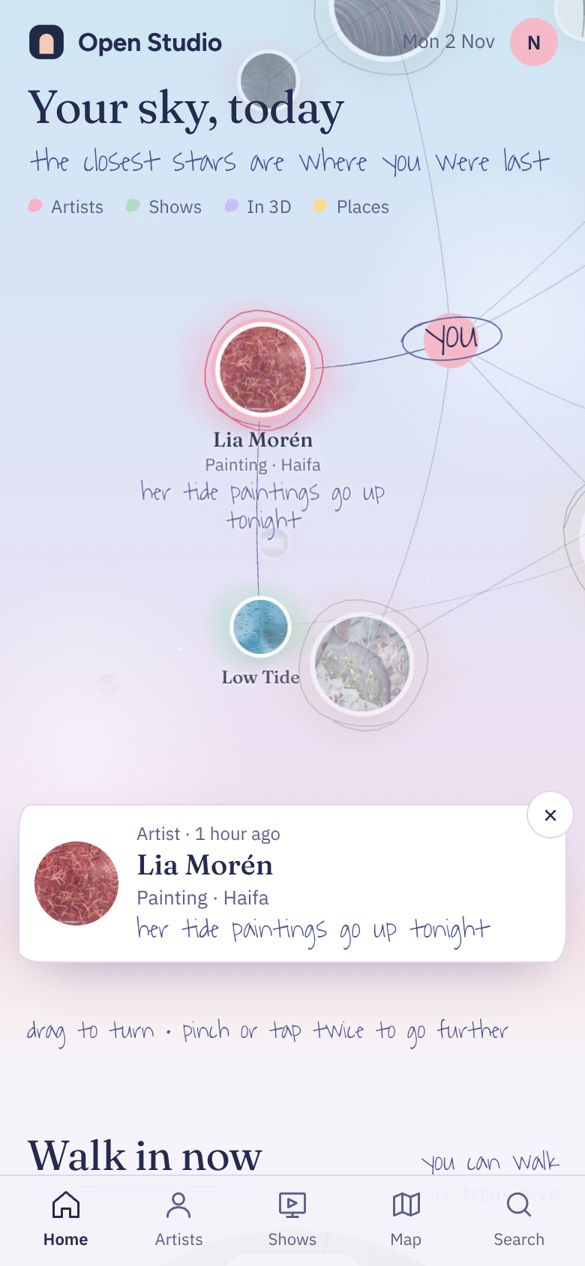
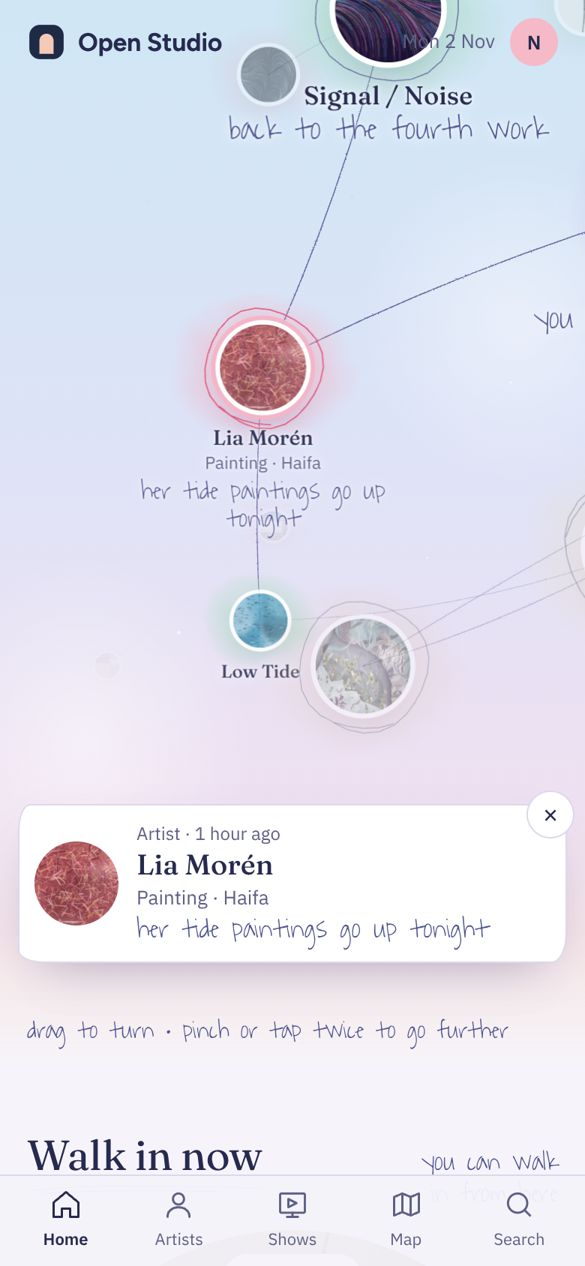
Daylight, by hand: no title and no 'you' in the middle; what you used last drawn as the trail you took
Claude-Session: https://claude.ai/code/session_017GsJvpJhWTJ6Xso11HKtdL

diff --git a/studio/design/home-sky/day.js b/studio/design/home-sky/day.js
@@ -1,6 +1,6 @@
 // Daylight sky, by hand: the page and the sky's marks, shared by the chosen direction and its variations.
 import { home } from './home.js';
-import { placeAll } from './data.js';
+import { placeAll, STARS, TIES } from './data.js';
 import { rnd } from './sky.js';
 
 const NS = 'http://www.w3.org/2000/svg';
@@ -42,15 +42,20 @@ const sketchArch = tour => {
   wrap.insertAdjacentHTML('beforeend', `<svg class="sketch-arch" viewBox="-9 -9 ${w + 16} ${h + 15}" aria-hidden="true"><path d="${path(-8, -9, 9)}"/><path d="${path(4, -3, 3)}" opacity=".5"/></svg>`);
 };
 
+// without a "you" in the middle: what you used last is drawn as the trail you took, in order
+const TRAIL = [['signal', 'lia', 'used'], ['lia', 'ritual', 'used'], ['ritual', 'harbour', 'used'], ['harbour', 'together', 'used'], ['maya', 'ritual', 'maybe'], ['elad', 'harbour', 'maybe']];
+const SKY_STARS = STARS.filter(s => s.kind !== 'you'), SKY_TIES = [...TRAIL, ...TIES.filter(t => !t.includes('you'))];
+
 export function day(v = {}) {
   hourSky(v.skies);
   home({
     tourShape: v.tourShape || 'arch', wander: false,
-    copy: { title: 'Your sky, today', hand: 'the closest stars are where you were last', hint: 'drag to turn · pinch or tap twice to go further', live: 'Walk in now', end: 'that’s your sky for today', ...v.copy },
+    copy: { title: '', hand: 'the closest stars are where you were last', hint: 'drag to turn · pinch or tap twice to go further', live: 'Walk in now', end: 'that’s your sky for today', ...v.copy },
     legend: v.legend === false ? null : [['artist', 'Artists'], ['show', 'Shows'], ['tour', 'In 3D'], ['place', 'Places']],
     sky: {
-      cam: { D: 560, pitch: 0 }, F: 560, cy: 0.57, limits: { yaw: 0.8, pitch: 0.45, Dmin: 300, Dmax: 1500 }, intro: 1.9, zoomEase: .05, farZoom: 1.9,
+      cam: { D: 560, pitch: 0 }, F: 560, cy: 0.535, limits: { yaw: 0.8, pitch: 0.45, Dmin: 300, Dmax: 1500 }, intro: 1.9, zoomEase: .05, farZoom: 1.9,
       farFrom: 560, fogStart: 60, fogRange: 1500, minOp: .1, labelAt: 0.7, bigAt: 0.86, maxScale: 1.3, bow: 0.1, ink: .8, pickLift: 90,
+      stars: v.you ? STARS : SKY_STARS, ties: v.you ? TIES : SKY_TIES,
       layout: placeAll, node: v.node || node,
       extra(g, project, cam, t, size) { dust(g, project); if (v.extra) v.extra(g, project, cam, t, size); },
       ...v.sky,

diff --git a/studio/design/home-sky/home.js b/studio/design/home-sky/home.js
@@ -13,7 +13,7 @@ export function home(d) {
   app.innerHTML = `
     <header class="top"><a class="brand" href="./">${LOGO}<span>Open Studio</span></a><span class="day">Mon 2 Nov</span><span class="me" aria-label="Your account">N</span></header>
     <section class="hero" aria-label="Your art world">
-      <div class="hello"><h1>${c.title}</h1>${c.hand ? `<p class="hand">${c.hand}</p>` : ''}
+      <div class="hello">${c.title ? `<h1>${c.title}</h1>` : `<h1 class="vh">Your art world</h1>`}${c.hand ? `<p class="hand">${c.hand}</p>` : ''}
         ${d.legend ? `<ul class="legend" aria-label="What the marks mean">${d.legend.map(([k, t]) => `<li><i class="lg lg-${k}"></i>${t}</li>`).join('')}</ul>` : ''}</div>
       <div id="sky" class="skybox"></div>
       <div class="sky-ui"><span class="hint">${c.hint || 'Drag to turn · pinch to see further'}</span>
@@ -56,12 +56,13 @@ export function home(d) {
   const S = sky(app.querySelector('#sky'), {
     stars: STARS, ties: TIES, ...d.sky,
     onChoose(s) {
+      app.querySelector('.hero').classList.toggle('picking', !!s);
       if (!s) { pick.hidden = true; return; }
       const go = s.kind === 'tour' && s.id === 'ritual' ? `<button type="button" class="go" data-walk>Walk in</button>`
         : s.place ? `<a class="go" href="${APP}?guest#/map/place/${s.place}">On the map</a>` : '';
       pick.innerHTML = `${s.img ? `<img src="${s.img}" alt="">` : `<i class="dot k-${s.kind}"></i>`}<div><span class="k">${KIND[s.kind]}${s.ago ? ` · ${esc(s.ago)}` : ''}</span><b${he(s.name)}>${esc(s.name)}</b><span>${esc(s.sub)}</span>${s.note ? `<span class="hand">${esc(s.note)}</span>` : ''}</div>${go}<button type="button" class="x" aria-label="Close">×</button>`;
       pick.hidden = false;
-      pick.querySelector('.x').onclick = () => { pick.hidden = true; S.clear(); };
+      pick.querySelector('.x').onclick = () => { pick.hidden = true; S.clear(); app.querySelector('.hero').classList.remove('picking'); };
       const w = pick.querySelector('[data-walk]'); if (w) w.onclick = () => enter();
     },
   });

diff --git a/studio/design/home-sky/base.css b/studio/design/home-sky/base.css
@@ -8,6 +8,7 @@ a{color:inherit}
 button{font:inherit;color:inherit}
 :focus-visible{outline:2px solid var(--ink);outline-offset:3px;border-radius:6px}
 #app{max-width:520px;margin:0 auto;overflow-x:clip;padding-bottom:calc(84px + env(safe-area-inset-bottom));position:relative}
+.vh{position:absolute!important;width:1px;height:1px;overflow:hidden;clip:rect(0 0 0 0);white-space:nowrap}
 .hand{font-family:var(--hand);color:var(--hand-ink);font-size:var(--hand-size,20px);line-height:1.15;font-weight:var(--hand-weight,500)}
 
 /* header floats over the sky */
@@ -43,6 +44,8 @@ button{font:inherit;color:inherit}
 .star.dim .lab{opacity:0}
 .skybox.full{position:fixed;inset:0;z-index:60;background:var(--sky)}
 .hero.wandering .hello{opacity:0}
+.hello{transition:opacity .4s ease}
+.hero.picking .hello{opacity:0}
 .sky-ui{position:absolute;z-index:14;left:18px;right:14px;bottom:16px;display:flex;align-items:center;gap:10px}
 .hero.wandering .sky-ui{position:fixed;z-index:62;bottom:calc(18px + env(safe-area-inset-bottom));max-width:488px;margin:0 auto}
 .hint{font-size:13px;color:var(--muted)}

diff --git a/studio/design/home-sky/day-watercolour.html b/studio/design/home-sky/day-watercolour.html
@@ -50,7 +50,7 @@ import { day } from './day.js';
 document.body.insertAdjacentHTML('afterbegin', `<svg width="0" height="0" style="position:absolute" aria-hidden="true"><filter id="bloom" x="-20%" y="-20%" width="140%" height="140%"><feTurbulence type="fractalNoise" baseFrequency="0.012" numOctaves="3" seed="21" result="n"/><feDisplacementMap in="SourceGraphic" in2="n" scale="70"/><feGaussianBlur stdDeviation="2"/></filter></svg>`);
 const BLOOMS = [[-6, 2, 70, 34, '#F9C7B4'], [52, -2, 62, 30, '#C9DDF5'], [8, 34, 58, 30, '#F5B8CB'], [56, 40, 56, 32, '#D2C6F4'], [-4, 66, 64, 30, '#BFE5D0'], [48, 72, 60, 30, '#F8DE95'], [20, 88, 70, 24, '#F5C3D1']];
 day({
-  copy: { title: 'Your sky, today', hand: 'painted from where you were last' },
+  copy: { title: '', hand: 'painted from where you were last' },
   sketchArch: true,
   after(app) {
     const paint = document.createElement('div'); paint.className = 'paint'; paint.setAttribute('aria-hidden', 'true');

diff --git a/studio/design/home-sky/day-graphite.html b/studio/design/home-sky/day-graphite.html
@@ -45,7 +45,7 @@ const heb = s => /[֐-׿]/.test(s) ? ' dir="rtl"' : '';
 const arrow = '<svg viewBox="0 0 18 16" aria-hidden="true"><path d="M15 14C11 12 7 9 4 3M4 3l-1 5M4 3l5 1"/></svg>';
 const seed = s => s.id.length * 7 + s.id.charCodeAt(0);
 day({
-  copy: { title: 'Your sky, today', hand: 'drawn from where you were last' },
+  copy: { title: '', hand: 'drawn from where you were last' },
   node: s => s.kind === 'you' ? you
     : `<span class="hatch"></span><span class="st"${s.img ? ` style="background-image:url(${s.img})"` : ''}></span>${s.ring === 0 ? ring(seed(s)) : ''}<span class="kd"></span><span class="lab"><b${heb(s.name)}>${s.name}</b>${s.sub ? `<small>${s.sub}</small>` : ''}${s.note ? `<span class="hand">${arrow}${s.note}</span>` : ''}</span>`,
   sky: { ink: 1.35 },

diff --git a/studio/design/home-sky/day-paper.html b/studio/design/home-sky/day-paper.html
@@ -59,7 +59,7 @@ const HILLS = `<svg class="hills" viewBox="0 0 390 150" preserveAspectRatio="non
   <path d="M0 122C70 108 120 126 190 116S300 100 390 114V150H0Z" fill="#F6F4FA"/></svg>`;
 const CLOUD = (x, y, w) => `<svg class="cloud" style="left:${x}%;top:${y}%;width:${w}px" viewBox="0 0 120 50" aria-hidden="true"><path d="M8 40C2 30 14 20 26 24 28 10 48 6 58 16 66 4 92 6 94 22 110 18 120 34 108 42Z"/></svg>`;
 day({
-  copy: { title: 'Your sky, today', hand: 'cut out from where you were last' },
+  copy: { title: '', hand: 'cut out from where you were last' },
   sketchArch: false,
   node: s => s.kind === 'you' ? you : `${cut(seed(s))}<span class="st"${s.img ? ` style="background-image:url(${s.img})"` : ''}></span>${label(s)}`,
   sky: { ink: 1.6 },
